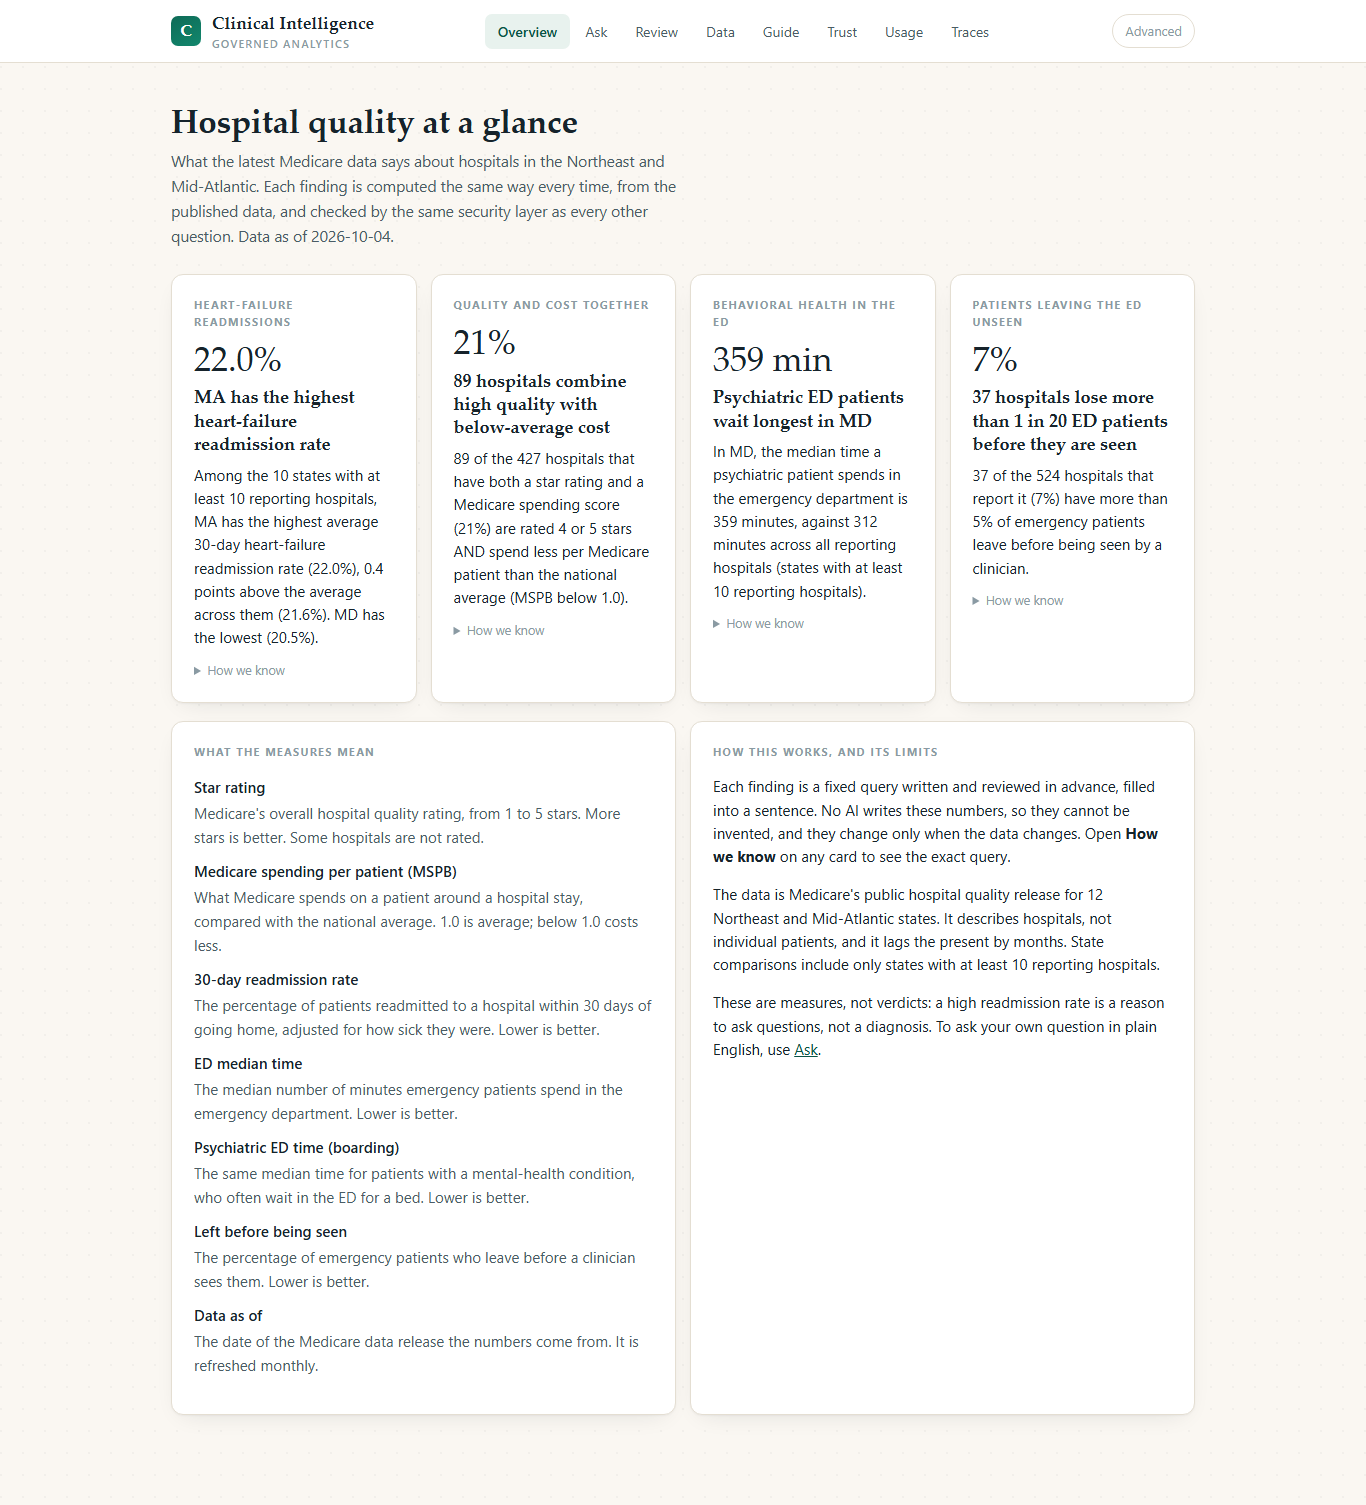
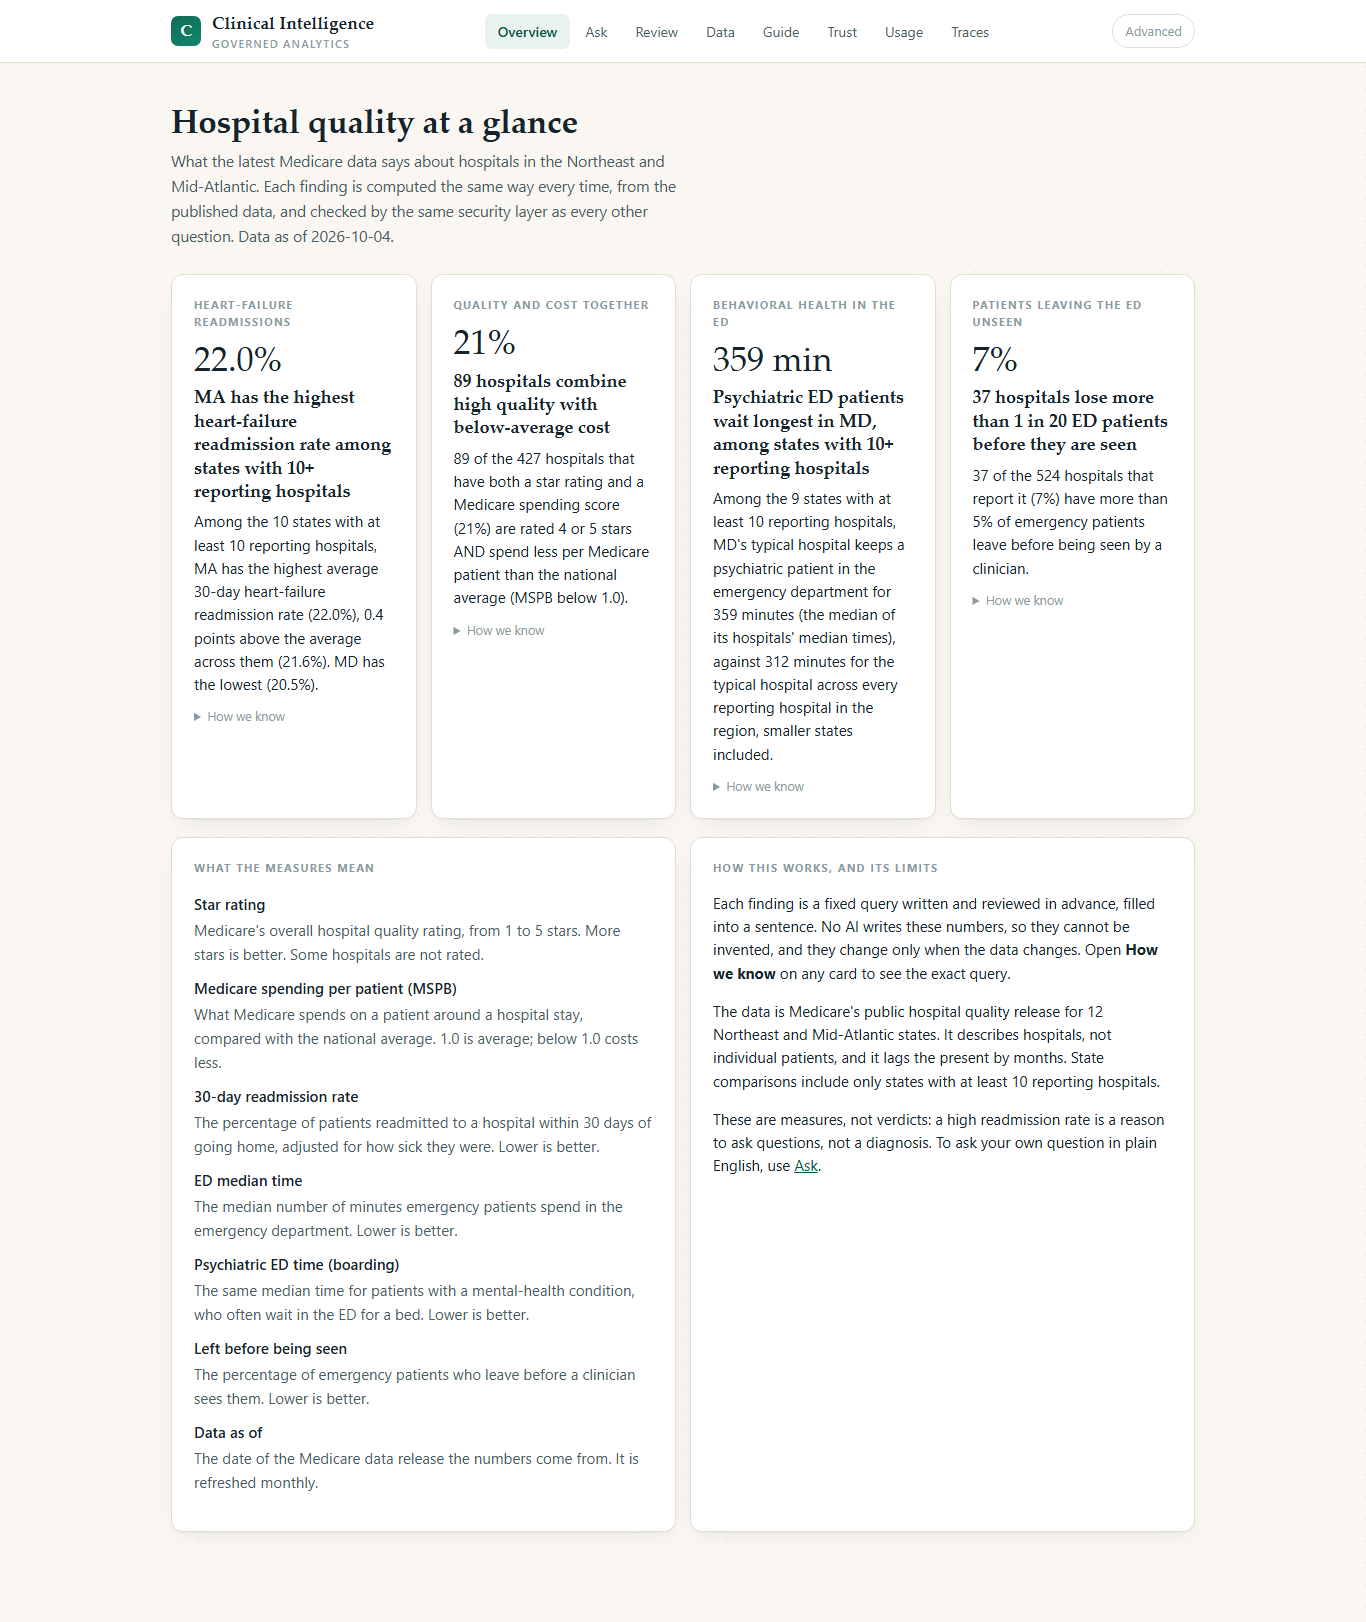
Overview review fixes: honest scope in the headlines, unrounded rankings, local Gold pinned, no header overflow up to 960px, reference-checked tests
- Psych: the headline and sentence say 'among states with 10+ reporting
  hospitals' (VT, DC, DE are higher but smaller) and describe the median of
  hospital medians as the typical hospital, not the median patient.
- HF and psych rank on the unrounded average/median (NH and NY both round to
  21.9; NY is higher). HF headline names its 10+ scope too.
- /findings reads the LOCAL Gold, which its vintage and cache key describe,
  even with DATA_BACKEND=databricks; a lock makes simultaneous first loads
  compute once.
- Empty denominators raise, so the card is unavailable, not '0 of 0 (n/a)'.
- UI: a 429/500 from /findings says so instead of an empty box; turning
  Advanced off resets SQL mode, backend and dataset (a hidden SQL mode rejected
  every plain question); tooltip no longer claims it hides the Traces tab.
- The header wraps up to 960px: no horizontal scroll at 721-960px with
  Advanced on or off (checked 375-1024px).
- Tests check each number against an independent Python computation from the
  Gold (a flipped < / >= or a reversed sort now fails; verified by mutation),
  that a set with an unavailable finding is not cached, and empty denominators.

diff --git a/web/index.html b/web/index.html
@@ -183,7 +183,8 @@
   .trust code{font-family:var(--mono);font-size:12px;background:var(--paper-2);
               padding:1px 6px;border-radius:5px;border:1px solid var(--rule);color:var(--ink-2)}
   a{color:var(--green-2)}
-  @media(max-width:720px){ .top-in{gap:6px 12px;padding:8px 16px;height:auto;flex-wrap:wrap} .brand h1{white-space:nowrap} nav{order:3;flex:1 0 100%;overflow-x:auto;scrollbar-width:none;-webkit-overflow-scrolling:touch} nav::-webkit-scrollbar{display:none} nav button{padding:8px 9px;font-size:13px;white-space:nowrap;flex:none} main{padding:24px 16px 70px} .hero h2{font-size:26px} }
+  @media(max-width:960px){ .top-in{gap:6px 12px;padding:8px 16px;height:auto;flex-wrap:wrap} .brand h1{white-space:nowrap} nav{order:3;flex:1 0 100%;overflow-x:auto;scrollbar-width:none;-webkit-overflow-scrolling:touch} nav::-webkit-scrollbar{display:none} nav button{white-space:nowrap;flex:none} }
+  @media(max-width:720px){ nav button{padding:8px 9px;font-size:13px} main{padding:24px 16px 70px} .hero h2{font-size:26px} }
 </style>
 </head>
 <body>
@@ -203,7 +204,7 @@
     <button data-v="usage">Usage</button>
     <button data-v="traces">Traces</button>
   </nav>
-  <button class="advtog" id="advBtn" aria-pressed="false" title="Show the technical controls: data source, dataset, SQL mode, access key and traces">Advanced</button>
+  <button class="advtog" id="advBtn" aria-pressed="false" title="Show the technical controls: data source, dataset, SQL mode, and links from an answer to its trace">Advanced</button>
   <button class="gear adv" id="gearBtn"><span class="dot" id="connDot"></span><span id="connTxt">Connect</span></button>
 </div></div>
 
@@ -426,18 +427,30 @@
 const $=id=>document.getElementById(id);
 const esc=s=>String(s??"").replace(/[&<>"]/g,c=>({"&":"&amp;","<":"&lt;",">":"&gt;",'"':"&quot;"}[c]));
 const KEY="ci_access_key";
-let MODE="query", BACKEND="local", DATASET=null;
+let MODE="query", BACKEND="local", DATASET=null, DEFAULT_DATASET=null;
 
 /* ---------- settings drawer ---------- */
 /* Advanced toggle: remembered per browser; storage may be unavailable */
 const ADV="ci_advanced";
 function setAdvanced(on){
   document.body.classList.toggle("advanced",on);
+  if(!on) resetHiddenControls();
   $("advBtn").setAttribute("aria-pressed",on?"true":"false");
   try{ localStorage.setItem(ADV,on?"1":"0"); }catch(_){}
 }
 try{ setAdvanced(localStorage.getItem(ADV)==="1"); }catch(_){ setAdvanced(false); }
 $("advBtn").onclick=()=>setAdvanced(!document.body.classList.contains("advanced"));
+/* Turning Advanced off hides the SQL / backend / dataset switches, so put them
+   back to their defaults: a hidden SQL mode would otherwise reject every
+   plain question with no visible way out. */
+function resetHiddenControls(){
+  try{
+    if(MODE!=="query") setMode("query");
+    const loc=$("segBackend").querySelector("[data-b='local']");
+    if(loc && BACKEND!=="local") loc.click();
+    if(DEFAULT_DATASET && DATASET!==DEFAULT_DATASET) setDataset(DEFAULT_DATASET);
+  }catch(_){}
+}
 
 /* ---------- overview: deterministic findings ---------- */
 function findingCard(f){
@@ -461,6 +474,10 @@ async function loadOverview(){
   try{
     const r=await fetch("/findings",{headers:authHdrs()});
     if(r.status===401){ box.innerHTML=""; $("ovConnect").hidden=false; return; }
+    if(!r.ok){
+      box.innerHTML=`<div class="card pad">The findings are not available right now (${r.status===429?"too many requests; try again in a minute":"server error "+r.status}).</div>`;
+      return;
+    }
     const d=await r.json();
     $("ovVintage").textContent=d.vintage?`Data as of ${d.vintage}.`:"";
     box.innerHTML=(d.findings||[]).map(findingCard).join("");
@@ -506,7 +523,7 @@ $("key2").addEventListener("keydown",e=>{ if(e.key==="Enter") $("connect2").clic
   let cfg={};
   try{ cfg=await (await fetch("/ui-config")).json(); }catch(_){}
   if(Array.isArray(cfg.datasets)){
-    DATASET=cfg.default_dataset||cfg.datasets[0].id;
+    DATASET=DEFAULT_DATASET=cfg.default_dataset||cfg.datasets[0].id;
     $("segDataset").innerHTML=cfg.datasets.map(x=>
       `<button data-d="${esc(x.id)}" class="${x.id===DATASET?"on":""}" ${x.available?"":"disabled title='not built on this server'"}>${esc(x.label.split(" (")[0])}</button>`).join("");
     setDataset(DATASET);   // paints the hint + starters for the initial dataset

diff --git a/findings.py b/findings.py
@@ -36,7 +36,8 @@ def _hf(rows: list[list[dict]]) -> dict:
     overall = sum(r["avg_hf"] * r["hospitals"] for r in states) / total
     gap = worst["avg_hf"] - overall
     return {
-        "headline": f"{worst['state']} has the highest heart-failure readmission rate",
+        "headline": (f"{worst['state']} has the highest heart-failure readmission rate "
+                     f"among states with {MIN_HOSPITALS}+ reporting hospitals"),
         "sentence": (f"Among the {len(states)} states with at least {MIN_HOSPITALS} reporting "
                      f"hospitals, {worst['state']} has the highest average 30-day heart-failure "
                      f"readmission rate ({worst['avg_hf']:.1f}%), {gap:.1f} points above the "
@@ -49,6 +50,8 @@ def _hf(rows: list[list[dict]]) -> dict:
 def _value(rows: list[list[dict]]) -> dict:
     r = rows[0][0]
     hv, rated = r["high_value"], r["rated"]
+    if not rated:
+        raise ValueError("no hospital has both a star rating and a spending score")
     return {
         "headline": f"{hv} hospitals combine high quality with below-average cost",
         "sentence": (f"{hv} of the {rated} hospitals that have both a star rating and a Medicare "
@@ -62,19 +65,26 @@ def _psych(rows: list[list[dict]]) -> dict:
     states, overall = rows[0], rows[1][0]["median_min"]
     if not states:
         raise ValueError("no state reports enough psychiatric ED times")
+    if overall is None:
+        raise ValueError("no hospital reports psychiatric ED times")
     top = states[0]
     return {
-        "headline": f"Psychiatric ED patients wait longest in {top['state']}",
-        "sentence": (f"In {top['state']}, the median time a psychiatric patient spends in the "
-                     f"emergency department is {top['median_min']:.0f} minutes, against "
-                     f"{overall:.0f} minutes across all reporting hospitals (states with at "
-                     f"least {MIN_HOSPITALS} reporting hospitals)."),
+        "headline": (f"Psychiatric ED patients wait longest in {top['state']}, among states with "
+                     f"{MIN_HOSPITALS}+ reporting hospitals"),
+        "sentence": (f"Among the {len(states)} states with at least {MIN_HOSPITALS} reporting "
+                     f"hospitals, {top['state']}'s typical hospital keeps a psychiatric patient in "
+                     f"the emergency department for {top['median_min']:.0f} minutes (the median "
+                     f"of its hospitals' median times), against {overall:.0f} minutes for the "
+                     f"typical hospital across every reporting hospital in the region, smaller "
+                     f"states included."),
         "metric": f"{top['median_min']:.0f} min",
     }
 
 
 def _lbs(rows: list[list[dict]]) -> dict:
     r = rows[0][0]
+    if not r["reporting"]:
+        raise ValueError("no hospital reports the left-before-seen rate")
     return {
         "headline": f"{r['over_5']} hospitals lose more than 1 in 20 ED patients before they are seen",
         "sentence": (f"{r['over_5']} of the {r['reporting']} hospitals that report it "
@@ -90,7 +100,8 @@ FINDINGS = [
         "title": "Heart-failure readmissions",
         "sql": [f"SELECT state, round(avg(readmit_hf), 1) AS avg_hf, count(readmit_hf) AS hospitals "
                 f"FROM gold_hospital_profile WHERE readmit_hf IS NOT NULL GROUP BY state "
-                f"HAVING count(readmit_hf) >= {MIN_HOSPITALS} ORDER BY avg_hf DESC, state"],
+                f"HAVING count(readmit_hf) >= {MIN_HOSPITALS} "
+                f"ORDER BY avg(readmit_hf) DESC, state"],
         "render": _hf,
     },
     {
@@ -106,7 +117,7 @@ FINDINGS = [
         "title": "Behavioral health in the ED",
         "sql": [f"SELECT state, round(median(ed_psych_median_min)) AS median_min, count(*) AS hospitals "
                 f"FROM gold_hospital_profile WHERE ed_psych_median_min IS NOT NULL GROUP BY state "
-                f"HAVING count(*) >= {MIN_HOSPITALS} ORDER BY median_min DESC, state",
+                f"HAVING count(*) >= {MIN_HOSPITALS} ORDER BY median(ed_psych_median_min) DESC, state",
                 "SELECT round(median(ed_psych_median_min)) AS median_min FROM gold_hospital_profile "
                 "WHERE ed_psych_median_min IS NOT NULL"],
         "render": _psych,

diff --git a/tests/integration/test_findings.py b/tests/integration/test_findings.py
@@ -102,3 +102,94 @@ def test_findings_are_cached_per_vintage_and_failures_are_not(client, monkeypatc
     app_module._STATE["findings_cache"] = (("another vintage", 0), {})
     c.get("/findings", headers=H)
     assert calls == [1, 1]                               # a new vintage recomputes
+
+
+# --- each number checked against an independent computation ---------------------
+# Not the finding's own SQL: plain rows from the Gold, summarised in Python, so a
+# flipped comparison (mspb_score > 1.0, >= 5) or a wrong column fails here.
+
+def _gold_rows(cols):
+    import duckdb
+    con = duckdb.connect(GOLD, read_only=True)
+    try:
+        return con.execute(f"SELECT {', '.join(cols)} FROM gold_hospital_profile").fetchall()
+    finally:
+        con.close()
+
+
+def _card(client, fid):
+    c, _ = client
+    return next(f for f in c.get("/findings", headers=H).json()["findings"] if f["id"] == fid)
+
+
+def test_hf_names_the_state_with_the_highest_unrounded_average(client):
+    by_state = {}
+    for state, v in _gold_rows(["state", "readmit_hf"]):
+        if v is not None:
+            by_state.setdefault(state, []).append(v)
+    avgs = {s: sum(v) / len(v) for s, v in by_state.items() if len(v) >= findings.MIN_HOSPITALS}
+    worst, best = max(avgs, key=avgs.get), min(avgs, key=avgs.get)
+    f = _card(client, "hf_readmission_by_state")
+    assert f["headline"].startswith(worst) and f["metric"] == f"{avgs[worst]:.1f}%"
+    assert f"{best} has the lowest" in f["sentence"]
+
+
+def test_high_value_counts_4_or_5_stars_below_average_cost(client):
+    rows = _gold_rows(["star_rating", "mspb_score"])
+    rated = [(s, m) for s, m in rows if s is not None and m is not None]
+    hv = sum(1 for s, m in rated if s >= 4 and m < 1.0)
+    f = _card(client, "high_quality_low_cost")
+    assert f["sentence"].startswith(f"{hv} of the {len(rated)} hospitals")
+
+
+def test_psych_names_the_slowest_state_with_enough_hospitals(client):
+    import statistics
+    by_state, everyone = {}, []
+    for state, v in _gold_rows(["state", "ed_psych_median_min"]):
+        if v is not None:
+            by_state.setdefault(state, []).append(v)
+            everyone.append(v)
+    meds = {s: statistics.median(v) for s, v in by_state.items() if len(v) >= findings.MIN_HOSPITALS}
+    top = max(meds, key=meds.get)
+    f = _card(client, "psych_ed_wait")
+    assert f"wait longest in {top}," in f["headline"]
+    assert abs(float(f["metric"].split()[0]) - meds[top]) <= 0.5
+    overall = float(re.search(r"against (\d+) minutes", f["sentence"]).group(1))
+    assert abs(overall - statistics.median(everyone)) <= 0.5
+
+
+def test_left_before_seen_counts_more_than_5_percent(client):
+    vals = [v for (v,) in _gold_rows(["ed_left_before_seen_pct"]) if v is not None]
+    f = _card(client, "ed_left_before_seen")
+    assert f["sentence"].startswith(f"{sum(1 for v in vals if v > 5)} of the {len(vals)} hospitals")
+
+
+def test_a_set_with_an_unavailable_finding_is_not_cached(client, monkeypatch):
+    c, _ = client
+    calls = []
+    real = findings.compute
+
+    def flaky(run_sql, vintage):
+        calls.append(1)
+        cards = real(run_sql, vintage)
+        if len(calls) == 1:
+            cards[0] = {**cards[0], "status": "unavailable", "reason": "transient"}
+        return cards
+    monkeypatch.setattr(findings, "compute", flaky)
+    first = c.get("/findings", headers=H).json()
+    assert first["findings"][0]["status"] == "unavailable"
+    second = c.get("/findings", headers=H).json()
+    assert calls == [1, 1] and second["findings"][0]["status"] == "ok"   # retried, not cached
+    c.get("/findings", headers=H)
+    assert calls == [1, 1]                                               # now cached
+
+
+@pytest.mark.parametrize("fid,rows", [
+    ("high_quality_low_cost", [[{"high_value": 0, "rated": 0}]]),
+    ("ed_left_before_seen", [[{"over_5": 0, "reporting": 0}]]),
+    ("psych_ed_wait", [[{"state": "MA", "median_min": 300, "hospitals": 12}], [{"median_min": None}]]),
+])
+def test_an_empty_denominator_is_unavailable_not_a_number(fid, rows):
+    f = next(x for x in findings.FINDINGS if x["id"] == fid)
+    with pytest.raises(ValueError):
+        f["render"](rows)

diff --git a/app.py b/app.py
@@ -700,6 +700,9 @@ def _query_graph(req: QueryRequest, ds: str) -> dict:
     return out
 
 
+_FINDINGS_LOCK = threading.Lock()
+
+
 def _vintage() -> tuple[Optional[str], tuple]:
     """(data vintage, cache key). The vintage is the CMS refresh date the build
     stamped in REFRESH.json; the key adds the Gold file's mtime so a rebuild
@@ -733,12 +736,18 @@ def get_findings(request: Request) -> dict:
     cached = _STATE.get("findings_cache")
     if cached and cached[0] == key:
         return cached[1]
-    with tracing.get_tracer().trace("findings", vintage=vintage):
-        cards = findings.compute(lambda sql: run_governed_sql(sql, None, "hospital"), vintage)
-    out = {"dataset": "hospital", "vintage": vintage, "findings": cards}
-    if all(c["status"] == "ok" for c in cards):
-        _STATE["findings_cache"] = (key, out)
-    return out
+    with _FINDINGS_LOCK:                      # simultaneous first loads compute once
+        cached = _STATE.get("findings_cache")
+        if cached and cached[0] == key:
+            return cached[1]
+        # Read the LOCAL Gold: the vintage and the cache key describe that file,
+        # so the numbers must come from it even when DATA_BACKEND=databricks.
+        with tracing.get_tracer().trace("findings", vintage=vintage):
+            cards = findings.compute(lambda sql: run_governed_sql(sql, "local", "hospital"), vintage)
+        out = {"dataset": "hospital", "backend": "local", "vintage": vintage, "findings": cards}
+        if all(c["status"] == "ok" for c in cards):
+            _STATE["findings_cache"] = (key, out)
+        return out
 
 
 @app.get("/metrics")
